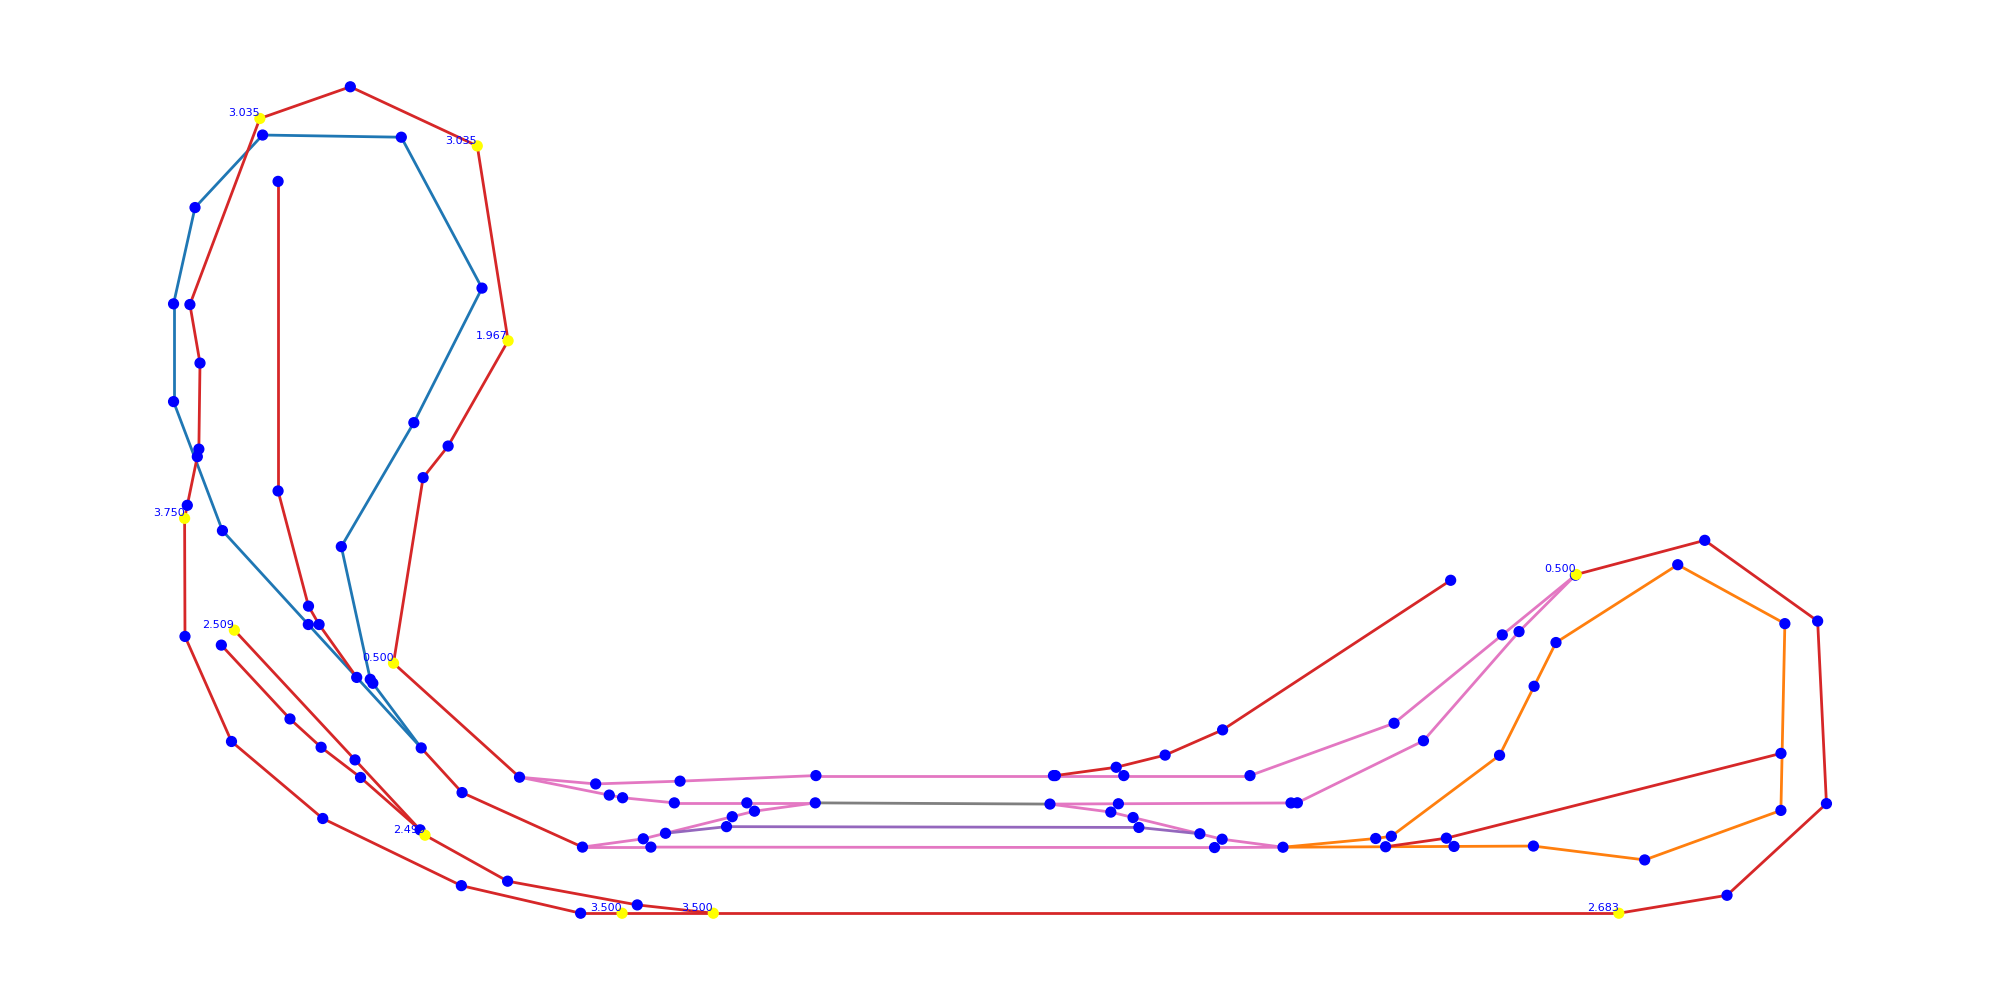
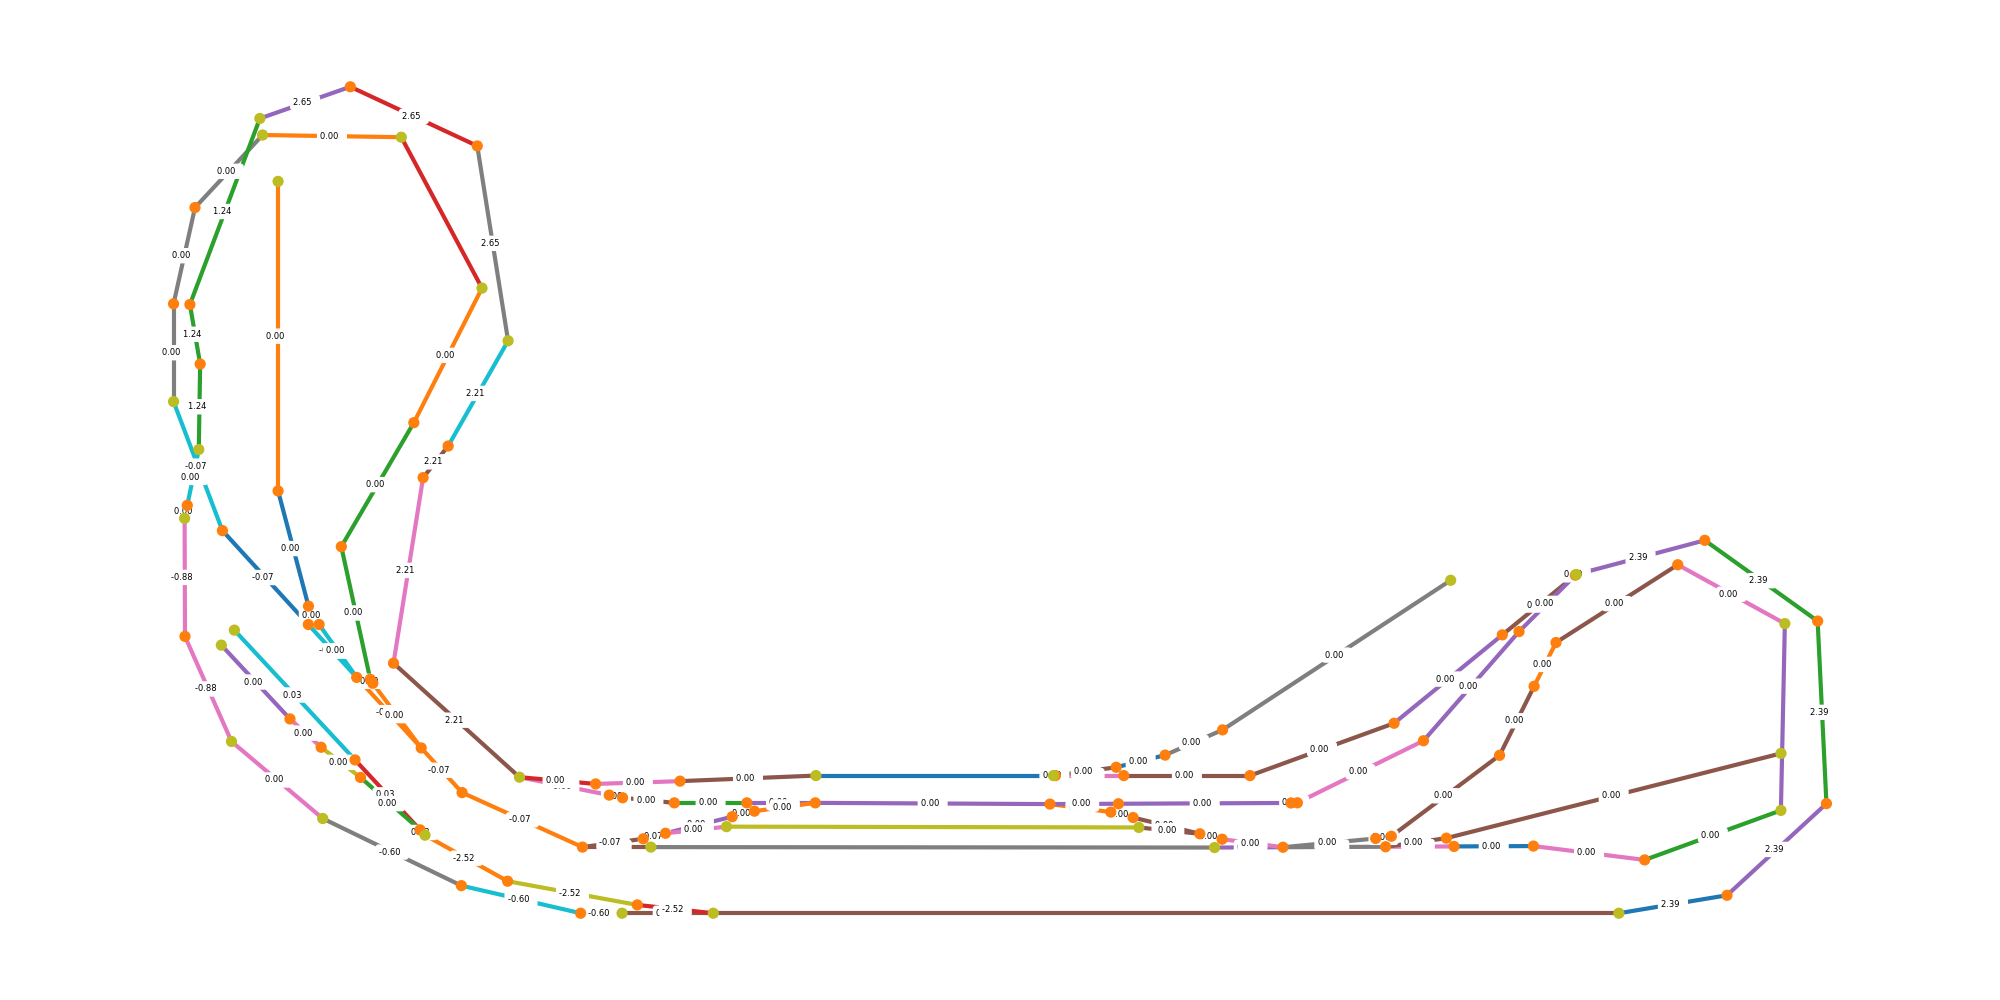
fairly clean display to grades on edges

diff --git a/elevations.py b/elevations.py
@@ -1,7 +1,7 @@
 #!/usr/bin/env python3
 '''Read connected track defined and computed elevations out of the xtrkcad file and save into a csv'''
 import logging
-from math import isnan, atan, degrees
+from math import isnan
 from os import path
 
 import re
@@ -14,6 +14,8 @@ import pandas as pd
 import yaml
 
 from part_class import Part,fmt_node_id
+
+COLOR_SET=list(mcolors.TABLEAU_COLORS.keys())
 
 logging.basicConfig(level=logging.INFO)
 
@@ -86,6 +88,7 @@ def step_len_div(part) -> list:
     lens+=[path['length']]
     divs+=[path['divergence']]
   return lens,divs
+
 def parts_as_dict(parts_list):
   '''convert parts list to a dict'''
   parts={}
@@ -118,7 +121,7 @@ def parts_to_graph(parts):
         for node_id,height in nodes.items():
           G.add_node(node_id,height=height)
         u,v=nodes.keys()
-        G.add_edge(u,v,length=part.length,part_id=str(part),weight=1/part.length)
+        G.add_edge(u,v,length=part.length,part_id=str(part),weight=1)#/part.length)
         pass
       case 'TURNOUT':
         # match up the connections to the paths by
@@ -161,57 +164,24 @@ def parts_to_graph(parts):
   logging.info('Converted to graph')
   return G,pos      
 
-def draw_graph(G,path,physical_pos=None,edge_color=None):
+def draw_graph(G,path,pos,node_labels=None,node_colors=None,edge_labels=None,edge_color=None):
   '''Draw the graph and store at path
-  If physical_pos is provided, it is used for the node locations'''
+  pos is used for the node locations'''
   plt.figure(figsize=(20,10),)
   plt.axis('off')
   plt.tight_layout(pad=0)
-  color_map=[]
-  height_labels={}
-  for node in G:
-    h=G.nodes[node]['height']
-    if h>0:
-      color_map.append('yellow')
-      height_labels[node]='%.3f'%h
-    else:
-      color_map.append('blue')
-  edge_labels = dict([((n1, n2), d['part_id']) for n1, n2, d in G.edges(data=True)]) # +'\n%.2f'%d['length']
-  if physical_pos is not None:
-    pos=physical_pos
-  else:
-    #pos=nx.spring_layout(G,weight='weight')
-    pos=nx.nx_pydot.graphviz_layout(G,prog='sfdp')
-  nx.draw_networkx(G, pos,node_color=color_map,with_labels=False,node_size=50,edge_color=edge_color,width=4)
-  nx.draw_networkx_labels(G,pos,height_labels,horizontalalignment='right',verticalalignment='bottom',font_size=6,font_color='b')
-  nx.draw_networkx_edge_labels(G,pos,edge_labels=edge_labels,font_size=6,rotate=False)
+
+  options={'node_color':node_colors,'with_labels':False,'node_size':50,'edge_color':edge_color,'width':3}
+  nx.draw_networkx(G, pos,**options)
+  if node_labels:
+    options={'horizontalalignment':'right','verticalalignment':'bottom','font_size':8,'font_color':'k','font_weight':'bold'}
+    nx.draw_networkx_labels(G,pos,node_labels,**options)
+  if edge_labels:
+    options={'font_size':6,'rotate':False}
+    nx.draw_networkx_edge_labels(G,pos,edge_labels=edge_labels,**options)
+
   plt.savefig(path)
   logging.info('Displayed graph in file %s'%(path))
-
-def color_edge_sets(G,edge_sets):
-  '''Establish colors for each edge found in the edge_sets
-  edge_sets is a list of lists.  If the edge is not found the reverse of the edge is tried.
-  returns an array of color codes'''
-  default='tab:red'
-  colors=list(set(mcolors.TABLEAU_COLORS.keys())-set(default))
-  edge_list=list(G.edges())
-  edge_color=[default]*len(edge_list)
-  cx=0
-  for n,chain in enumerate(edge_sets):
-    logging.info('%d. len: %d, starts: %s, ends: %s'%(n,len(chain),chain[0],chain[-1]))
-    for edge in chain:
-      if edge in edge_list:
-        ix=edge_list.index(edge)
-      else:
-        edge=(edge[1],edge[0])
-        if edge in edge_list:
-          ix=edge_list.index(edge)
-        else:
-          assert False, 'Cannot locate edge or the reverse of edge'
-      assert edge_color[ix]==default, 'over writing a color'
-      edge_color[ix]=colors[cx%len(colors)]
-    cx+=1
-  return edge_color
 
 def walk_tree(tree,current_node,processed=[],node_line=[],depth=0,next_ramp=0):
   '''follow each branch/stem on the tree
@@ -227,6 +197,7 @@ def walk_tree(tree,current_node,processed=[],node_line=[],depth=0,next_ramp=0):
     epe = endpoints encountered
     next_ramp
   '''
+  default_height=0.5
   done=False
   logging.debug('entering walk at stack depth = %d'% depth)
   processed.append(current_node)
@@ -262,7 +233,10 @@ def walk_tree(tree,current_node,processed=[],node_line=[],depth=0,next_ramp=0):
       if neighbor_count==1: # this node has no neighbors other than the path we came in on
         if height==0: # default the height of this node if neede be
           sel=df.height!=0
-          assert sel.values.any(), 'no heights in node line'
+          if not sel.values.any():
+            logging.warning('no heights in node line... using default')
+            df['height']=default_height                            
+            sel=df.height!=0
           last_height=df.loc[sel].tail(1)['height'].squeeze()
           height=last_height
           df.iloc[-1,df.columns.get_loc('height')]=height
@@ -303,23 +277,28 @@ def walk_tree(tree,current_node,processed=[],node_line=[],depth=0,next_ramp=0):
         # die if the total length of the section is zero.
         assert not isnan(slope), 'Bad slope'# pylint: disable=singleton-comparison
 
+        # track if height was computed to allow coloring. 1 is this was computed, 0 for defined
+        df['computed']=(df.height==0).astype(int) 
+
         # put the computed heights in the dataframe
         df['cum']=df.length.cumsum(axis=0).shift(fill_value=0)
         df['height']=df.cum.apply(lambda x: start_height+x*slope)
-        # and then into a dict
-        att=df[['height']].to_dict('index')
+
+        # attributes into a dict
+        att=df[['height','computed']].to_dict('index')
         # and then into the spanning tree
         nx.set_node_attributes(tree,att)
         logging.debug('Set height for %d nodes'%df.shape[0])
 
-        # mark the edges with the ramp (section) number
+        # mark the edges with the ramp (section) number and the grade
         df=pd.DataFrame(columns=['edge_id'])
         df['edge_id']=edge_ids
         df.set_index('edge_id',inplace=True)
         df['ramp_id']=next_ramp
-        att=df[['ramp_id']].to_dict('index')
+        df['grade']=100*slope
+        att=df[['ramp_id','grade']].to_dict('index')
         nx.set_edge_attributes(tree,att)
-        logging.debug('Set ramp_id for %d edges'%df.shape[0])
+        logging.debug('Set ramp_id & grade for %d edges'%df.shape[0])
         next_ramp+=1
 
       # if there is a forward path take it
@@ -337,33 +316,76 @@ def walk_tree(tree,current_node,processed=[],node_line=[],depth=0,next_ramp=0):
     logging.debug('Removed line node %s'%removed[0])
   return processed,node_line,epe,next_ramp
 
+def drawing_decorations(G):
+  '''given a graph G, return
+    node_labels, node_colors, edge_labels, edge_colors
+    '''
+  node_labels=nx.get_node_attributes(G,'height')
+  node_labels={key:'%.2f  '%(value) for (key,value) in node_labels.items()}
+  node_labels=None
+
+  node_computed=nx.get_node_attributes(G,'computed')
+  df=pd.DataFrame(node_computed.values(),index=node_computed.keys(),columns=['computed'])
+  node_colors=[COLOR_SET[(8,1)[a]]for a in df.computed.to_list()] # orange for computed, yellow for defined
+
+  edge_labels=nx.get_edge_attributes(G,'grade')
+  edge_labels={key:'%.2f  '%(value) for (key,value) in edge_labels.items()}
+
+  edge_ramps=nx.get_edge_attributes(G,'ramp_id')
+  df=pd.DataFrame(edge_ramps.values(),index=edge_ramps.keys(),columns=['ramp'])
+  edge_colors=[COLOR_SET[a%len(COLOR_SET)]for a in df.ramp.to_list()]
+    
+  return node_labels,node_colors,edge_labels,edge_colors
+
 def main():
   '''the main routine'''
   with open ('config.yaml',encoding='UTF-8') as f:
     config=yaml.safe_load(f)
   in_file=config['pwd']+path.sep+config['xtc']
-  base=config['docs']+path.sep
+  base=config['docs']
   physcial_file=base+config['physical_graph_file']
   logical_file=base+config['logical_graph_file']
   span_tree_file=base+config['span_tree_file']
   parts=read_input(in_file=in_file)
   parts=parts_as_dict(parts)
   logging.info (f'input file has {len(parts)} parts')
-  G,pos=parts_to_graph(parts)
+  G,physical_pos=parts_to_graph(parts)
   logging.info('Graph has %d nodes'%len(list(G.nodes())))
-  span_tree = nx.minimum_spanning_tree(G)
+
+  # create a spanning tree so it can be walked to set heights
+  span_tree = nx.minimum_spanning_tree(G,weight='length')
   logging.info('Spanning tree node count= %d'%(len(list(span_tree.nodes()))))
   root='S115-E2'
+
+  # set the heights
   processed,node_line,epe,next_ramp=walk_tree(span_tree,root)
+
   logging.info('Node line has %d members'%len(node_line))
   logging.info('Processed %d nodes'%len(processed))
   logging.info('Encountered %d endpoints'%epe)
-  logging.info('Ramp numbers: 0 - %d'%next_ramp)
-  draw_graph(span_tree,span_tree_file)
-  chains=list(nx.chain_decomposition(G,root=root))
-  edge_color=color_edge_sets(G,chains)
-  draw_graph(G,physcial_file,pos,edge_color)
-  draw_graph(G,logical_file,edge_color=edge_color)
+  logging.info('Ramp numbers: 0 - %d'%(next_ramp-1))
+
+  # show spanning tree with ramps by color
+  pos=nx.nx_pydot.graphviz_layout(span_tree,prog='neato')
+  node_labels, node_colors, edge_labels, edge_colors=drawing_decorations(span_tree)
+  options={'node_labels':node_labels,'node_colors':node_colors,'edge_labels':edge_labels,'edge_color':edge_colors}
+  draw_graph(span_tree,span_tree_file,pos,**options)
+
+  # transfer the attributes from the spanning tree to the main graph
+  att=dict(span_tree.nodes(data=True))
+  nx.set_node_attributes(G,att)
+
+  ea=list(span_tree.edges(data=True))
+  att={(a[0],a[1]): a[2]for a in ea}
+  nx.set_edge_attributes(G,att)
+
+  # show the physical and logical views of the graph itself
+  node_labels, node_colors, edge_labels, edge_colors=drawing_decorations(G)
+  options={'node_labels':node_labels,'node_colors':node_colors,'edge_labels':edge_labels,'edge_color':edge_colors}
+  draw_graph(G,physcial_file,physical_pos,**options)
+
+  pos=nx.nx_pydot.graphviz_layout(G,prog='neato')
+  draw_graph(G,logical_file,pos,**options)
 
 if __name__=='__main__':
   main()

diff --git a/docs/index.md b/docs/index.md
@@ -5,7 +5,10 @@ The layout below is stored in a file created by the xtrkcad program.
 ![CAD (xtrkcad) source](./xtrkcad_source.png)
 
 That file is read by custom Python code and graph object is generated with the Python library networkx.  
-Networkx provides tools to analyze the graph.  Here it shows cycles that it found and "bridges" in red where there was not cycle.
+Networkx provides tools to convert the graph into a spanning tree.  The spanning tree has all the nodes and edges but because it is a tree it can be "walked" in an orderly way.  This allows a the program to walk through the tree and fill in the missing heights, so that every node has a height.
+
+The spanning tree looks like this (currenly showing grades on the edges):
+![Spanning Tree](./span_tree.png)
 
 The logical layout uses the Graphviz "neato" layout.  The physical layout uses the original (x,y) coordinates from xtrkcad, but with straight edges.
 
